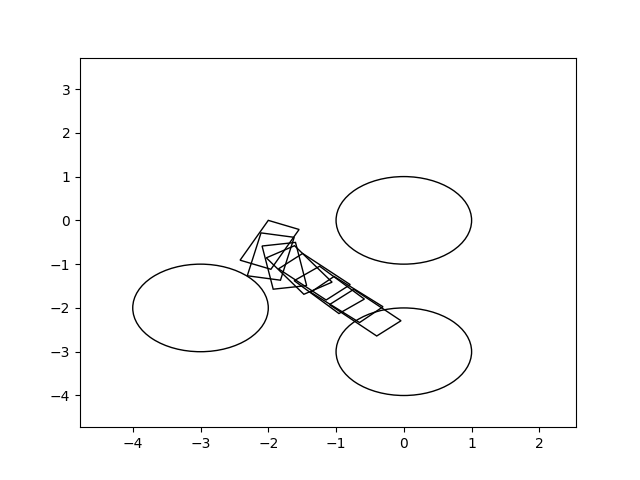
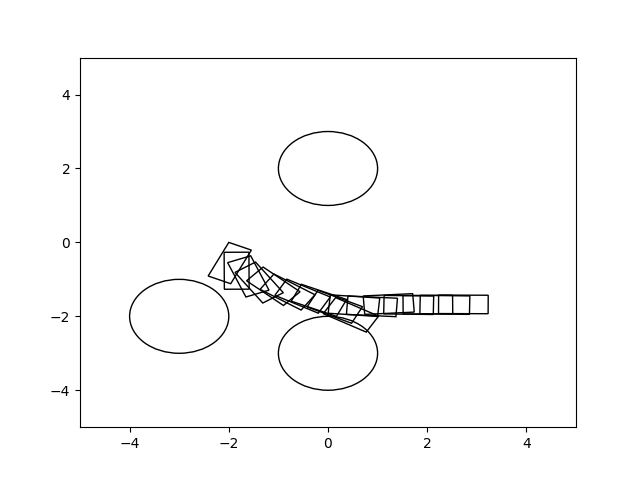
comments and attempt to avoid collisions in trajectories

diff --git a/modules.py b/modules.py
@@ -129,26 +129,35 @@ def optimal_control(x_start:tuple, x_target:tuple, max_iters:int = 100, obstacle
     x_start = tuple_to_state(x_start)
     x_target = tuple_to_state(x_target)
     min_dist = np.inf
+    best_state = None
+    states = None
 
     def sample_control()->np.ndarray:
         """Sample a control input"""
         return np.random.uniform(-0.5, 0.5, (2, 1))
     
     for _ in range(max_iters):
+        
         # Sample a control input
         u = sample_control()
         # Simulate the robot with the control input
         states = simulate(x_start, u, 0.1, 4., "rk")
         # Check if the robot collides with the obstacles
+        col = False
         for state in states:
             if collide_obstacles(state_to_tuple(state), obstacles):
+                col = True
                 break
-        # Calculate the distance between the last state and the target state
-        dist = distance_points(state_to_tuple(states[-1])[1:], x_target[1:])
-        # Update the best state if the distance is smaller
-        if dist < min_dist:
-            min_dist = dist
-            best_state = states[-1]
+        # Skip the current iteration if the robot collides with the obstacles
+        if not col:
+            # Calculate the distance between the last state and the target state
+            dist = distance_points(state_to_tuple(states[-1])[1:], x_target[1:])
+            # Update the best state if the distance is smaller
+            if dist < min_dist:
+                min_dist = dist
+                best_state = states[-1]
+        
+            
     
     return best_state, states
 

diff --git a/main.py b/main.py
@@ -116,7 +116,7 @@ def task3():
     #     # visualize_best_path(path_xy)                 # Uncomment to see the path(only x, y)
     #     best_states = [tuple_to_state(p) for p in path]
     #     visualize_states(best_states)
-    #     # visualize_states(tr)                         # Uncomment to see the trajectories
+    #     # visualize_states(tr)                         # Uncomment to see the trajectories(some collisions may occur)
         
     # else:
     #     print("Invalid")
@@ -147,8 +147,8 @@ def task3():
         # path_xy = [p[1:] for p in path]               # Uncomment to see the path(only x, y)
         # visualize_best_path(path_xy)                  # Uncomment to see the path(only x, y)
         best_states = [tuple_to_state(p) for p in path]
-        visualize_states(best_states, obstacles) 
-        # visualize_states(tr, obstacles)               # Uncomment to see the trajectories(some still collide with the obstacles)
+        visualize_states(best_states, obstacles)
+        # visualize_states(tr, obstacles)               # Uncomment to see the trajectories(some collisions may occur)
         
     else:
         print("Invalid")

diff --git a/rrt.py b/rrt.py
@@ -66,7 +66,7 @@ def valid_state(x:np.ndarray, obstacles:list=[])->bool:
         if isinstance(x, bool):
             if x:
                 return False
-        if (np.abs(x[1:]) > 5.).any() or collide_obstacles(x, obstacles):
+        if (np.abs(x[1:]) > 5.).any() or collide_obstacles(state_to_tuple(x), obstacles):
             return False
         return True
     else:
